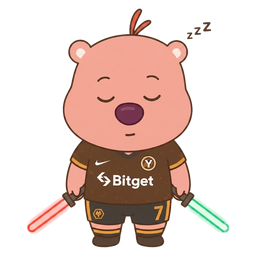
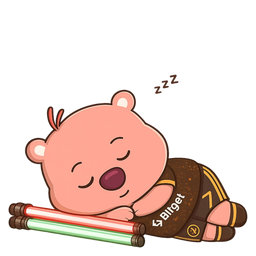
pyoluppy sleepy: lie-down pose + breathing doze (v0.17.37)
sleepy를 서서 조는 자세 -> 봉을 바닥에 내려놓고 엎드려 자는 자세로 교체.
- 에셋 pyoluppy_sleepy.png 교체
- doze: 좌우 로킹 -> 하단 기준 호흡(scaleY 1.05 + 가로 스쿼시 0.985), 3.2s.
  transform-origin:50% 100% 필수.
- GLOW sleepy 좌표: 바닥에 수평으로 놓인 봉으로 교체.
- HANDOFF.md 스펙(doze/테이블/GLOW) 동기화.
트리거(10분 횡보)·다른 상태 변경 없음.

diff --git a/styles/illustrated-characters.css b/styles/illustrated-characters.css
@@ -399,7 +399,7 @@
   .c-il-pyoluppy.py-dumpStrong .body { animation: py-shakeHard 0.15s linear infinite;
     filter: drop-shadow(0 0 10px rgba(248,113,113,0.8)); }
   .c-il-pyoluppy.py-despair .body    { animation: py-droop 3.4s ease-in-out infinite; }
-  .c-il-pyoluppy.py-sleepy .body     { animation: py-doze 3.8s ease-in-out infinite; }
+  .c-il-pyoluppy.py-sleepy .body     { animation: py-doze 3.2s ease-in-out infinite; transform-origin: 50% 100%; }
 
   @keyframes py-sway      { 0%,100% { transform: translateX(-3px); } 50% { transform: translateX(3px); } }
   @keyframes py-idleTilt  { 0%,100% { transform: rotate(0); } 45% { transform: rotate(-5deg); } }
@@ -408,7 +408,7 @@
   @keyframes py-shake     { 0% { transform: translateX(-5px) rotate(-2deg); } 50% { transform: translateX(5px) rotate(2deg); } 100% { transform: translateX(-5px) rotate(-2deg); } }
   @keyframes py-shakeHard { 0% { transform: translateX(-8px); } 50% { transform: translateX(8px); } 100% { transform: translateX(-8px); } }
   @keyframes py-droop     { 0%,100% { transform: translateY(4px) rotate(-1deg); } 50% { transform: translateY(6px) rotate(1deg); } }
-  @keyframes py-doze      { 0%,100% { transform: rotate(-1.5deg) translateY(0); } 50% { transform: rotate(1.5deg) translateY(2px); } }
+  @keyframes py-doze      { 0%,100% { transform: scaleY(1) scaleX(1); } 50% { transform: scaleY(1.05) scaleX(0.985); } } /* 엎드려 자는 호흡: 부풀 때 가로 스쿼시(0.985) — 볼륨감 (하단 기준) */
   @keyframes py-pop       { 0% { transform: scale(0.9); } 100% { transform: scale(1); } }
   @keyframes py-entrance  { 0% { transform: translateY(120px); opacity: 0; } 100% { transform: translateY(0); opacity: 1; } }
 

diff --git a/renderer/pyoluppy-controller.js b/renderer/pyoluppy-controller.js
@@ -20,7 +20,7 @@
     dump:       { l: ["red",   31,  54, 50, 112, -12], r: ["red",   230,  93, 54, 112,  22] },
     dumpStrong: { l: ["red",   31,  54, 50, 112, -12], r: ["red",   230,  93, 54, 112,  22] },
     despair:    { l: ["red",   58, 190, 34,  80, -25], r: ["red",   195, 190, 34,  80,  25] },
-    sleepy:     { l: ["red",   63, 200, 38,  84, -38], r: ["green", 208, 215, 40,  70,  38] },
+    sleepy:     { l: ["red",   90, 218, 115, 24, -4], r: ["green",  79, 231, 108, 18, -4] }, // 바닥에 수평으로 놓인 봉
   };
   // 상태별 글로우 애니메이션 (HANDOFF: dump는 pump보다 강하게 — 의도된 비대칭)
   const GLOW_ANIM = {

diff --git a/main.js b/main.js
@@ -1,4 +1,4 @@
-// BTC Pet Desktop - main process (v0.17.36-pyoluppy-sensitivity-parity)
+// BTC Pet Desktop - main process (v0.17.37-pyoluppy-sleepy-pose)
 const { app, BrowserWindow, Tray, Menu, nativeImage, ipcMain, screen, shell, dialog, powerMonitor } = require("electron");
 const path = require("path");
 const fs = require("fs");

diff --git a/HANDOFF.md b/HANDOFF.md
@@ -55,7 +55,7 @@ signalman/
 @keyframes shake     { 0% { transform: translateX(-5px) rotate(-2deg); } 50% { transform: translateX(5px) rotate(2deg); } 100% { transform: translateX(-5px) rotate(-2deg); } }
 @keyframes shakeHard { 0% { transform: translateX(-8px); } 50% { transform: translateX(8px); } 100% { transform: translateX(-8px); } }
 @keyframes droop     { 0%,100% { transform: translateY(4px) rotate(-1deg); } 50% { transform: translateY(6px) rotate(1deg); } }
-@keyframes doze      { 0%,100% { transform: rotate(-1.5deg) translateY(0); } 50% { transform: rotate(1.5deg) translateY(2px); } }
+@keyframes doze      { 0%,100% { transform: scaleY(1) scaleX(1); } 50% { transform: scaleY(1.05) scaleX(0.985); } }  /* 엎드려 자기: 하단 기준 호흡, 부풀 때 가로 스쿼시. transform-origin:50% 100% 필수 */
 @keyframes pop       { 0% { transform: scale(.9); } 100% { transform: scale(1); } }
 @keyframes entrance  { 0% { transform: translateY(120px); opacity: 0; } 100% { transform: translateY(0); opacity: 1; } }
 ```
@@ -68,7 +68,7 @@ signalman/
 | dump | shake | 0.32s infinite | |
 | dumpStrong | shakeHard | 0.15s infinite | `drop-shadow(0 0 10px rgba(248,113,113,.8))` |
 | despair | droop | 3.4s infinite | |
-| sleepy | doze | 3.8s infinite | |
+| sleepy | doze | 3.2s infinite | 엎드려 자기 — 하단 기준 호흡+스쿼시 |
 
 `prefers-reduced-motion: reduce`일 때 전부 `animation: none`.
 
@@ -110,7 +110,7 @@ const GLOW = {
   dump:       { l: ['red',   31,  54, 50, 112, -12], r: ['red',   230,  93, 54, 112,  22] },
   dumpStrong: { l: ['red',   31,  54, 50, 112, -12], r: ['red',   230,  93, 54, 112,  22] },
   despair:    { l: ['red',   58, 190, 34,  80, -25], r: ['red',   195, 190, 34,  80,  25] },
-  sleepy:     { l: ['red',   63, 200, 38,  84, -38], r: ['green', 208, 215, 40,  70,  38] },
+  sleepy:     { l: ['red',   90, 218, 115, 24, -4], r: ['green',  79, 231, 108, 18, -4] },  // 엎드려 자기: 바닥에 수평으로 놓인 봉
 };
 ```
 

diff --git a/notes/PYOLUPPY_NOTES.md b/notes/PYOLUPPY_NOTES.md
@@ -80,3 +80,16 @@ HANDOFF.md 스펙 그대로 이식. 기존 "이미지 3장 스왑 + CSS 모션" 
   0.42%×0.7≈0.29% 밑으로 가야 pump로. 경계 깜빡임(→entrance 반복) 원인 제거.
 - 불변사항: strong 배수 3.5(0.42%)는 사용자 확정(레버리지 체감 기준). exit-ratio 0.7은 깜빡임
   방지용 튜닝값.
+
+## 후속: sleepy 자세 변경 — 서서 조는 → 엎드려 자기 (v0.17.37)
+
+- **에셋**: `pyoluppy_sleepy.png` 교체(봉을 바닥에 내려놓고 엎드려 자는 자세, 256px 하단정렬).
+- **doze 애니메이션**: 누운 자세라 좌우 로킹(rotate)은 어색 → **하단 기준 호흡(스쿼시)** 로 교체.
+  `@keyframes py-doze { 0%,100%{scaleY(1) scaleX(1)} 50%{scaleY(1.05) scaleX(0.985)} }`, **3.2s**.
+  부풀 때 가로 0.985로 살짝 눌리는 스쿼시가 핵심 — 진짜 호흡하는 볼륨감. (scaleY만이면 너무 미묘)
+  `.py-sleepy .body`에 `transform-origin: 50% 100%`(하단 기준) **필수** — 아래에서 부풀어야 자연스러움.
+- **GLOW sleepy 좌표**: 봉이 세로가 아니라 바닥에 수평으로 놓임 →
+  `l:['red',90,218,115,24,-4], r:['green',79,231,108,18,-4]` (넓고 낮은 수평 바).
+- HANDOFF.md도 doze keyframe·sleepy 테이블(3.2s)·GLOW sleepy 좌표 동기화.
+- 불변사항: sleepy 트리거(10분 횡보)·다른 상태·GLOW_ANIM(faint pulse)은 변경 없음.
+  좌표·스쿼시 값은 256px 실측/사용자 확정 — 임의 조정 금지, 테이블 숫자만 수정.
